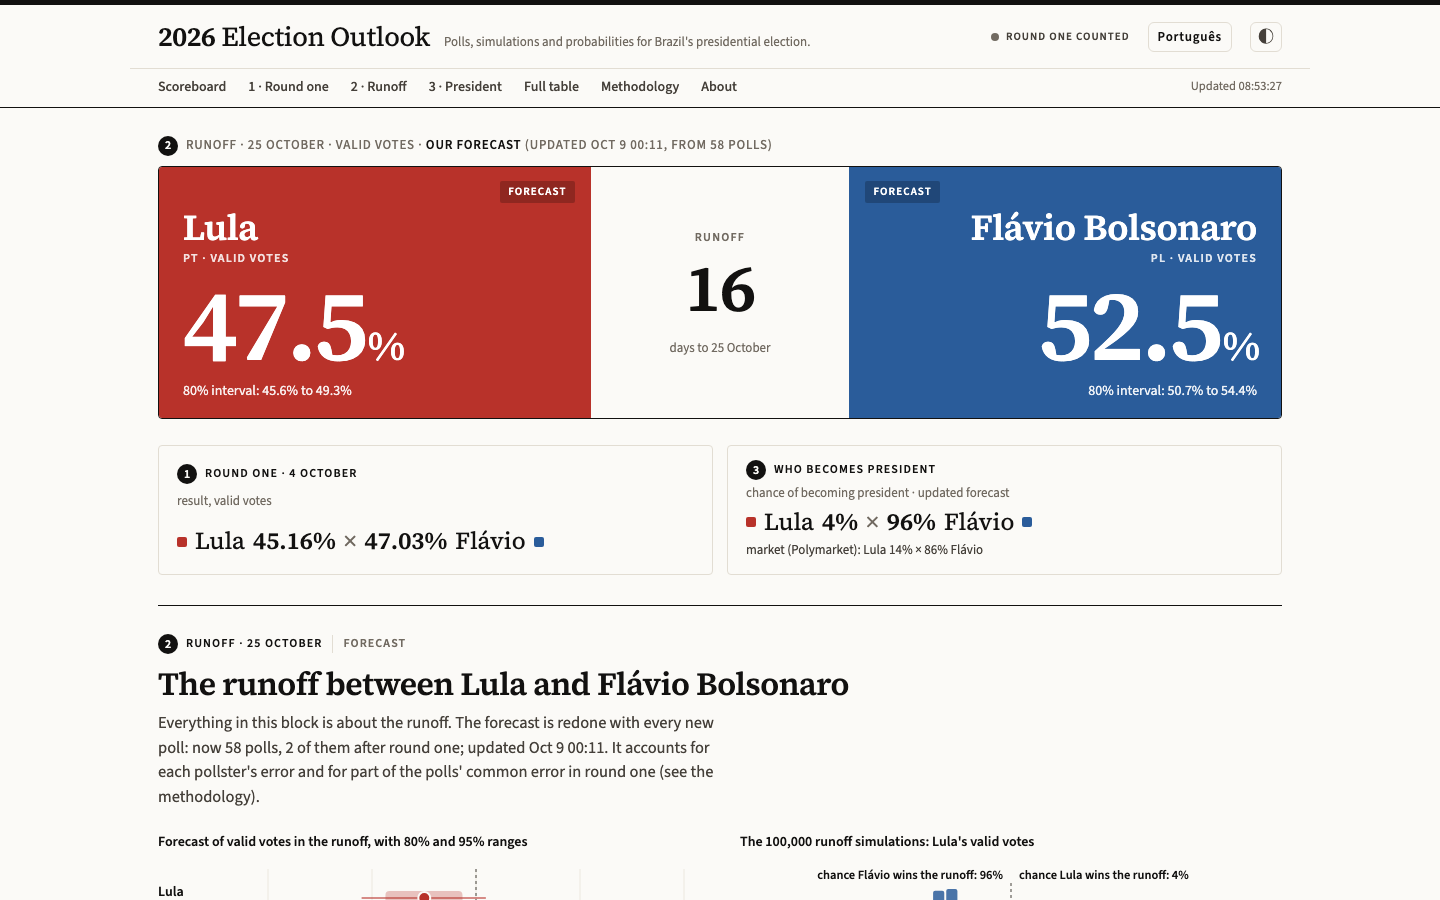
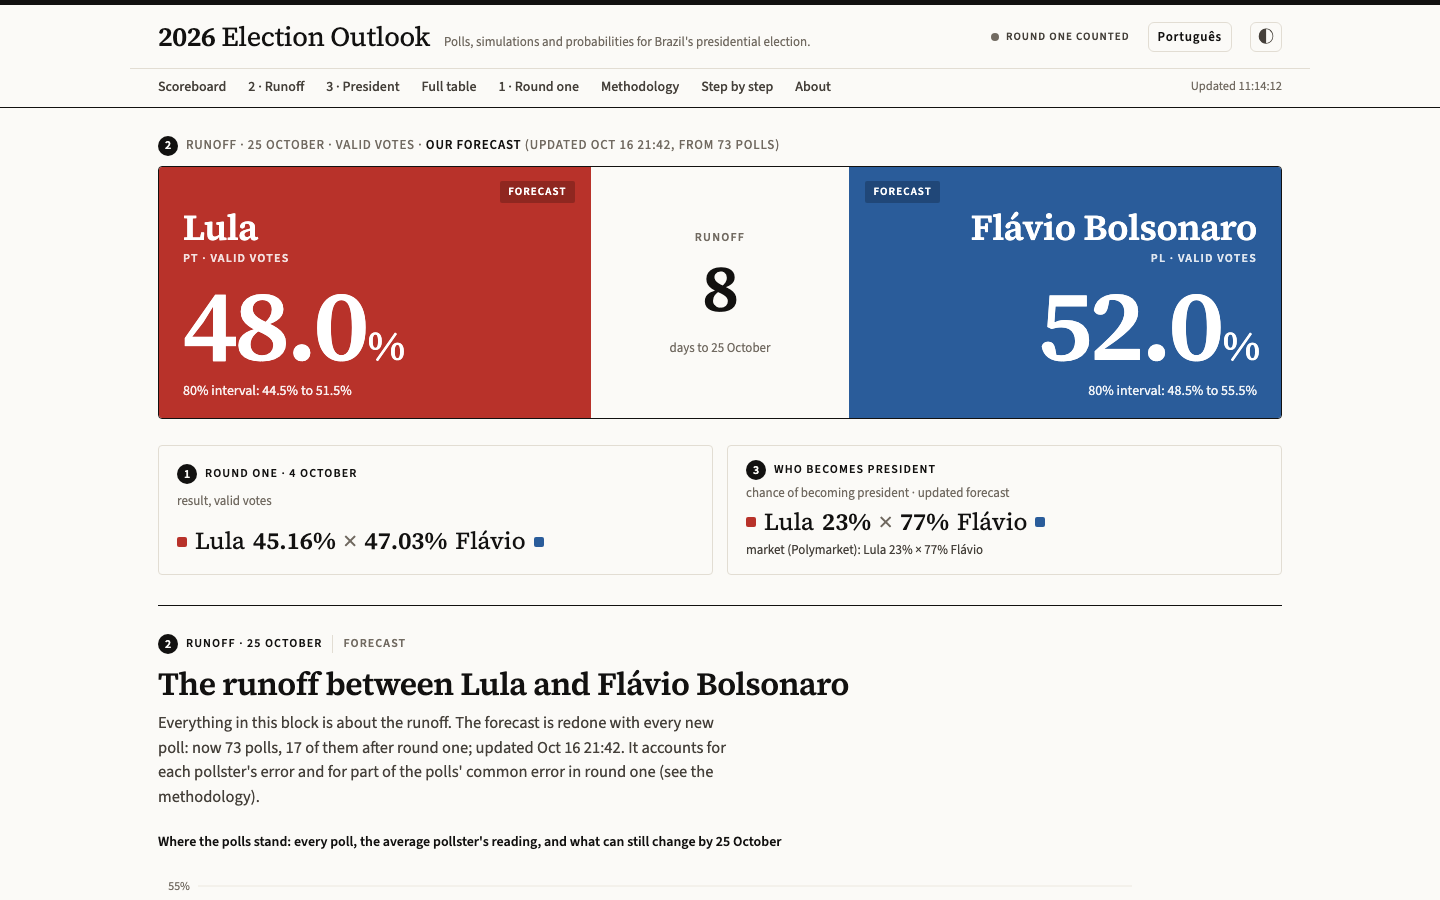
The runoff's last week on the dashboard: polls and consensus, turnaround or confirmation, our chance against the market

diff --git a/README.md b/README.md
@@ -17,7 +17,7 @@ it predicts and scored in public afterwards. Every chance is shown for both cand
 > the models work, how they are scored and how they have done so far.
 
 ![The dashboard between the two rounds](screenshots/dashboard.png)
-<sub>The dashboard on 9 October 2026, between the two rounds. The live numbers change with each new poll.</sub>
+<sub>The dashboard on 17 October 2026, eight days before the runoff. The live numbers change with each new poll.</sub>
 
 ## What this project covers
 
@@ -46,6 +46,15 @@ small-sample problem, and a transparent statistical model with honest uncertaint
 lean (the leans sum to zero), ε each poll's sampling error. The page
 [How we got here](https://brelections.tiagodantas.com/en/how-we-got-here) takes the current
 forecast apart step by step.
+
+![Every runoff poll, the average pollster's reading and the band to 25 October](screenshots/polls-consensus.png)
+<sub>Every runoff poll as a dot, the average pollster's reading as a line (each pollster's lean removed), the ± 1 sd band opening to 25 October, and the round-one result.</sub>
+
+![Turnaround or confirmation: what each candidate needs, and what happened after round one in 2014, 2018, 2022 and so far in 2026](screenshots/turnaround-or-confirmation.png)
+<sub>Added on 17 October, when part of the public expected a turnaround: what each side needs, in two symmetrical paragraphs with every number from the live state, next to the three readings per election (first week after round one, final polls, result). In 2014 and 2018 the polls moved about 4 points towards the PT candidate after round one; in all three elections the final polls gave the PT candidate more than the result.</sub>
+
+![Chance of becoming president over time: our forecast against Polymarket](screenshots/chance-vs-market.png)
+<sub>Our updated forecasts as steps over the market's price, with the frozen forecast and the two model addenda marked.</sub>
 
 ![The runoff block](screenshots/runoff-forecast.png)
 
